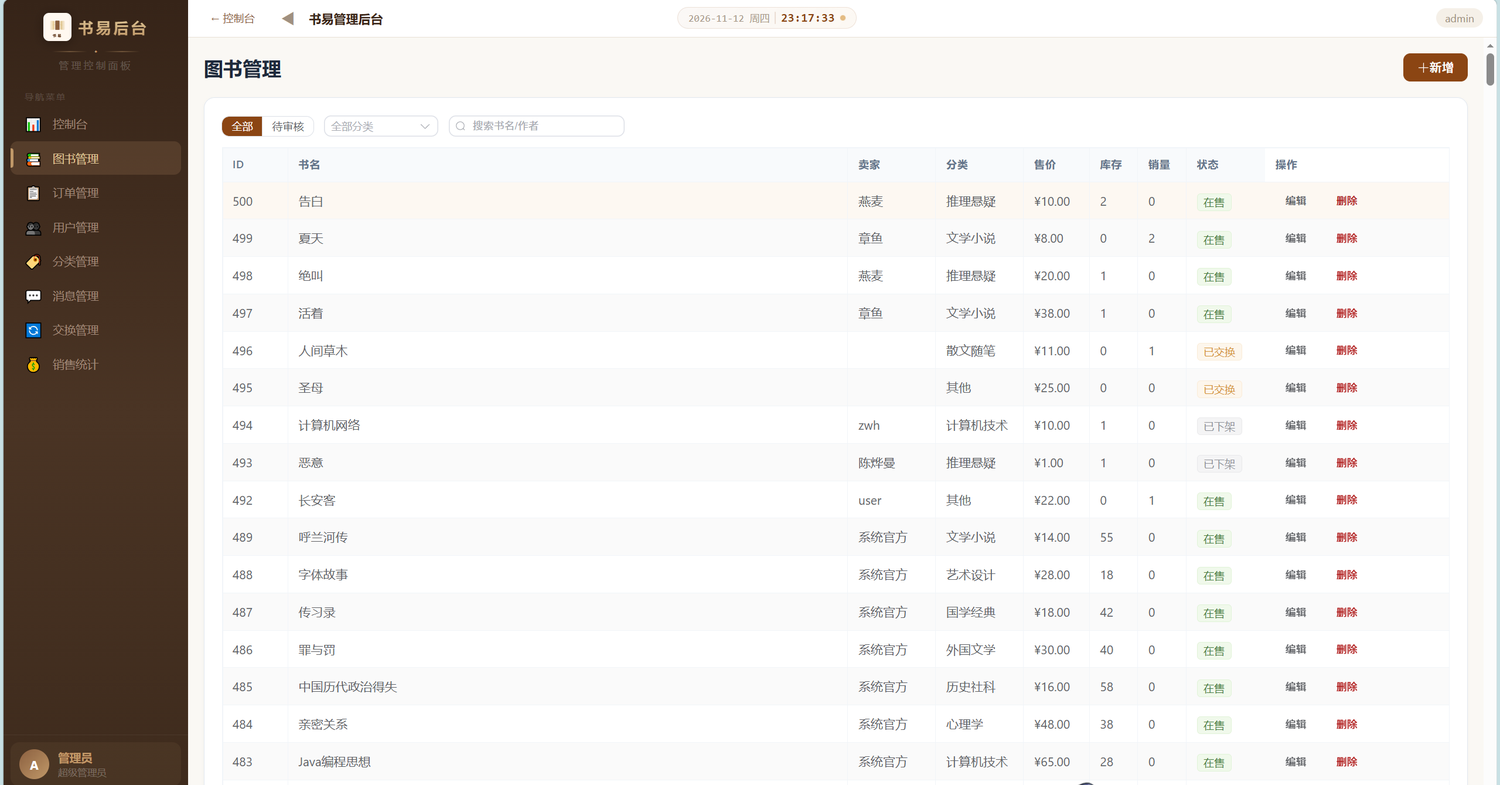
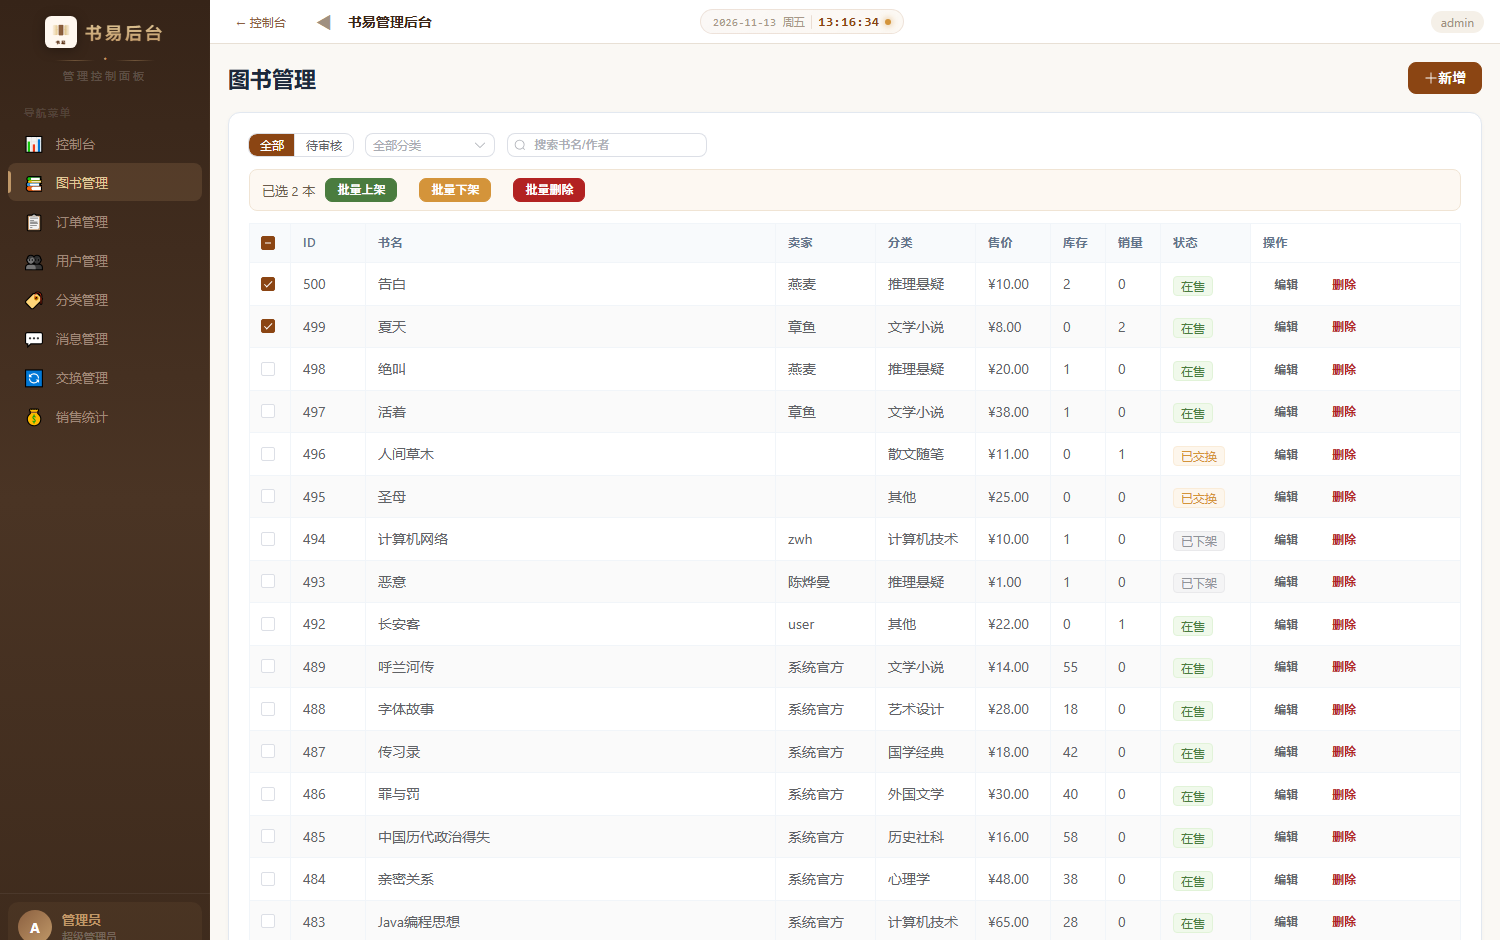
docs: 同步接口文档与功能说明，更新全套界面截图

diff --git a/README.md b/README.md
@@ -20,23 +20,28 @@
 |---|---|
 | <img src="./docs/screenshots/admin-dashboard.png" alt="管理端控制台"> | <img src="./docs/screenshots/admin-books.png" alt="管理端图书管理"> |
 
+| 订单详情 | 论坛 |
+|---|---|
+| <img src="./docs/screenshots/order-detail.png" alt="订单详情"> | <img src="./docs/screenshots/forum.png" alt="论坛"> |
+
 ## 功能
 
 **用户端**
 
-- 图书浏览、分类筛选、关键词搜索、价格 / 销量 / 上新排序
-- 图书详情：成色、评分与评价、收藏、加入购物车、立即购买
-- 上架二手书：支持 emoji 封面或上传图片（前端裁剪 + 后端压缩）
-- 我的发布 / 我的收藏 / 购物车 / 我的订单
+- 图书浏览、分类筛选、关键词搜索、价格 / 销量 / 上新排序（服务端分页）
+- 图书详情：成色、评分与文字评价、收藏、加入购物车、立即购买
+- 上架二手书：渐变封面或上传图片（前端裁剪 + 后端压缩），默认进入审核
+- 我的发布 / 我的收藏 / 购物车 / 我的订单 / 订单详情
 - 订单全流程：待付款 → 待发货 → 已发货 → 已签收 → 已完成，支持取消与退货
+- 卖家视角：查看「我卖出的」订单并直接发货
 - 以书换书：双方各自确认后完成交换，图书归属自动互换
-- 站内私信、论坛发帖与回复
+- 站内私信；论坛支持发帖、回复、关键词搜索、我的帖子与分页
 - 图书档案：已下架 / 已交换 / 已售罄图书的归档浏览
 
 **管理端**（`/admin`）
 
-- 控制台：图书、用户、订单、销售额统计
-- 图书管理：审核（通过 / 驳回）、编辑、上下架、删除
+- 控制台：图书、用户、订单、销售额统计 + 订单状态分布
+- 图书管理：审核（通过 / 驳回）、编辑、上下架、删除，支持批量上架 / 下架 / 删除
 - 订单管理：发货、取消、退货审核
 - 用户管理：禁用 / 启用（联动下架其在售图书）、删除
 - 分类管理、消息中心、交换管理、销售统计
@@ -49,7 +54,7 @@
 | 构建 | Vite 8 |
 | 后端 | Node.js + Express 4、mysql2 连接池、JWT、bcryptjs、Multer、Sharp |
 | 数据库 | MySQL 8（InnoDB、utf8mb4），11 张表 |
-| 测试 | 49 项接口冒烟脚本（`server/scripts/smoke.mjs`），GitHub Actions 自动运行 |
+| 测试 | 57 项接口冒烟脚本（`server/scripts/smoke.mjs`），GitHub Actions 自动运行 |
 
 ## 架构
 
@@ -167,7 +172,7 @@ book-management/
 
 ## 测试
 
-冒烟测试覆盖鉴权、审核、下单计价、库存回滚、越权访问、私信、论坛、评分、交换等 49 项断言，脚本自带测试数据并自动清理。
+冒烟测试覆盖鉴权、审核、下单计价、库存回滚、越权访问、私信、论坛、评分、交换等 57 项断言，脚本自带测试数据并自动清理。
 
 GitHub Actions 会在 MySQL 8 容器里自动执行同一套测试（见 `.github/workflows/ci.yml`）。
 
@@ -203,15 +208,16 @@ $env:SMOKE_BASE='http://localhost:3100'; npm run smoke
 - 库存扣减、状态流转、交换完成等操作使用数据库事务 + 行锁；
 - 用户身份一律取自 token，忽略请求体里的 `user_id / seller_id`；
 - 登录/注册接口带频率限制；
+- CORS 白名单（`CORS_ORIGINS`）+ `nosniff` / `X-Frame-Options` 等基础安全响应头；
 - 上传接口校验登录态与文件真实类型，统一重编码为 JPEG。
 
 ## 已知限制
 
+- 文字评价暂无敏感词过滤与人工审核；
 - 支付为模拟流程，未接入真实支付渠道；
 - 图片存本地磁盘，未接入对象存储；
-- 列表接口暂未分页（数据量约 500 本，暂可接受）；
-- 尚未接入 Vitest 等测试框架，目前用 49 项接口冒烟脚本 + GitHub Actions 兜底；
-- 限流是单机内存实现，多实例部署需要换成 Redis 等共享存储。
+- 尚未接入 Vitest 等测试框架，目前用 57 项接口冒烟脚本 + GitHub Actions 兜底；
+- 限流是单机内存实现，多实例部署需要换成共享存储。
 
 ## 生产环境注意事项
 

diff --git a/docs/API.md b/docs/API.md
@@ -27,7 +27,7 @@
 
 | 方法 | 路径 | 权限 | 说明 |
 |---|---|---|---|
-| GET | `/books` | 公开 | 列表，支持 `category`、`keyword`、`sort`（`price-asc` / `price-desc` / `sales` / `new`）、`status`、`seller_name` |
+| GET | `/books` | 公开 | 列表，支持 `category`、`keyword`、`sort`（`price-asc` / `price-desc` / `sales` / `new`）、`status`、`seller_name`；带 `page` / `pageSize` 时返回 `{ items, total, page, pageSize }`，否则返回数组 |
 | GET | `/books/categories` | 公开 | 数据库中已有的分类名列表 |
 | GET | `/books/:id` | 公开 | 详情 |
 | GET | `/books/cover/:id` | 公开 | 动态生成的 SVG 封面（无图片时兜底） |
@@ -37,14 +37,16 @@
 | GET | `/books/:id/favorites` | 本人或管理员 | 某用户的收藏 ID 列表（`:id` 为用户 ID） |
 | POST | `/books/:id/favorite` | 本人 | body：`{ bookId, add }` |
 | GET | `/books/:id/rating` | 公开 | 平均分、评分人数、`?user_id=` 时返回我的评分 |
-| POST | `/books/:id/rate` | 登录 | body：`{ score: 1-5 }`，每人每书一条，重复提交即修改 |
+| GET | `/books/:id/reviews` | 公开 | 带文字内容的评价列表（最多 20 条） |
+| POST | `/books/:id/rate` | 登录 | body：`{ score: 1-5, comment?: string }`，每人每书一条，重复提交即修改 |
 
 ## 订单
 
 | 方法 | 路径 | 权限 | 说明 |
 |---|---|---|---|
 | POST | `/orders` | 登录 | body：`{ address, phone, remark?, items: [{ book_id, quantity }] }` |
-| GET | `/orders` | 登录 | 普通用户仅返回自己的订单，管理员可查全部或按 `user_id` 过滤 |
+| GET | `/orders` | 登录 | 普通用户返回自己的订单；带 `role=seller` 返回「别人买我的书」；管理员可查全部或按 `user_id` 过滤 |
+| GET | `/orders/:id` | 登录 | 订单详情（买家 / 卖家 / 管理员），含明细与买家信息 |
 | PUT | `/orders/:id/status` | 买家 / 卖家 / 管理员 | body：`{ status }`，走状态机校验 |
 | POST | `/orders/:id/pay` | 买家 / 管理员 | 待付款 → 待发货 |
 | POST | `/orders/:id/cancel` | 买家 / 管理员 | 待付款、待发货 → 已取消，回滚库存 |
@@ -98,7 +100,7 @@
 
 | 方法 | 路径 | 权限 | 说明 |
 |---|---|---|---|
-| GET | `/forum/posts` | 公开 | 帖子列表，置顶优先 |
+| GET | `/forum/posts` | 公开 | 帖子列表，置顶优先；支持 `keyword`、`user_id`（我的帖子）、`page` / `pageSize` |
 | GET | `/forum/posts/:id` | 公开 | 详情 + 回复，访问计数 +1 |
 | POST | `/forum/posts` | 登录 | 发帖 |
 | PUT / DELETE | `/forum/posts/:id` | 作者 / 管理员 | 编辑 / 删除 |

diff --git a/docs/RESUME.md b/docs/RESUME.md
@@ -12,7 +12,7 @@
 
 - 基于 Express + MySQL 开发校园二手书交易平台，设计 11 张表与 40+ 接口，支撑图书发布、审核、下单、退款、换书、私信、论坛等完整闭环；
 - 解决交易数据一致性问题：下单只传 `book_id` 与数量，价格与库存由服务端计算，使用事务 + 行锁保证扣减与回滚正确，修复了「取消订单不返库存、销量虚高」的历史问题；
-- 实现 JWT 鉴权中间件与角色校验，接口按「公开 / 登录 / 管理员 / 资源属主」四级鉴权，并补充登录限流；配套 49 项接口冒烟测试脚本。
+- 实现 JWT 鉴权中间件与角色校验，接口按「公开 / 登录 / 管理员 / 资源属主」四级鉴权，并补充登录限流；配套 57 项接口冒烟测试脚本。
 
 **偏前端**
 
@@ -22,7 +22,7 @@
 
 **偏全栈（一句话概括型）**
 
-- 独立完成「书易」校园二手书平台（Vue 3 + Express + MySQL），实现二手书买卖、以书换书、站内私信与后台审核；针对越权与超卖风险补充 JWT 鉴权、服务端计价与库存事务，并编写 49 项接口冒烟测试。
+- 独立完成「书易」校园二手书平台（Vue 3 + Express + MySQL），实现二手书买卖、以书换书、站内私信与后台审核；针对越权与超卖风险补充 JWT 鉴权、服务端计价与库存事务，并编写 57 项接口冒烟测试。
 
 ## 可以量化的数字
 
@@ -32,7 +32,7 @@
 | 接口数量 | 40+（9 个路由模块） |
 | 前端页面 | 用户端 20 个 + 管理端 8 个 + 5 个公共组件 |
 | 种子数据 | 489 本图书、23 个分类 |
-| 冒烟用例 | 49 项断言，覆盖鉴权 / 越权 / 计价 / 库存回滚 / 状态机 |
+| 冒烟用例 | 57 项断言，覆盖鉴权 / 越权 / 计价 / 库存回滚 / 状态机 |
 | 图书状态机 | 待审核 → 在售 → 已下架 / 已交换 / 已售罄 |
 | 订单状态机 | 9 个状态、10 条合法流转 |
 

diff --git a/docs/FIXES.md b/docs/FIXES.md
@@ -55,7 +55,7 @@
 | `README.md` 重写 | 功能、架构、启动步骤、环境变量、账号、测试、安全设计、已知限制 |
 | `docs/API.md` | 40+ 接口的权限、参数、状态机说明 |
 | `docs/RESUME.md` | 简历 bullet 草稿 + 面试追问清单 |
-| `server/scripts/smoke.mjs` | 49 项接口冒烟断言，自带测试数据并自动清理 |
+| `server/scripts/smoke.mjs` | 57 项接口冒烟断言，自带测试数据并自动清理 |
 | `.github/workflows/ci.yml` | GitHub Actions：前端 lint + 构建、后端依赖安装与语法检查 |
 | `LICENSE` | MIT |
 
